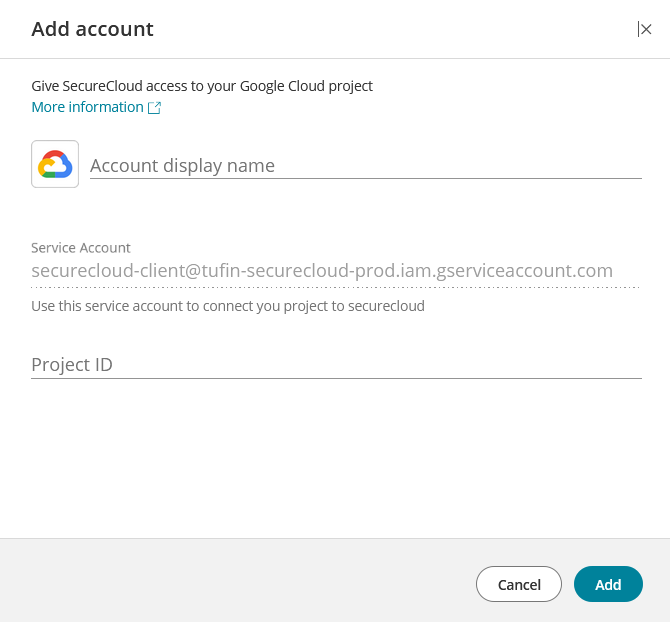
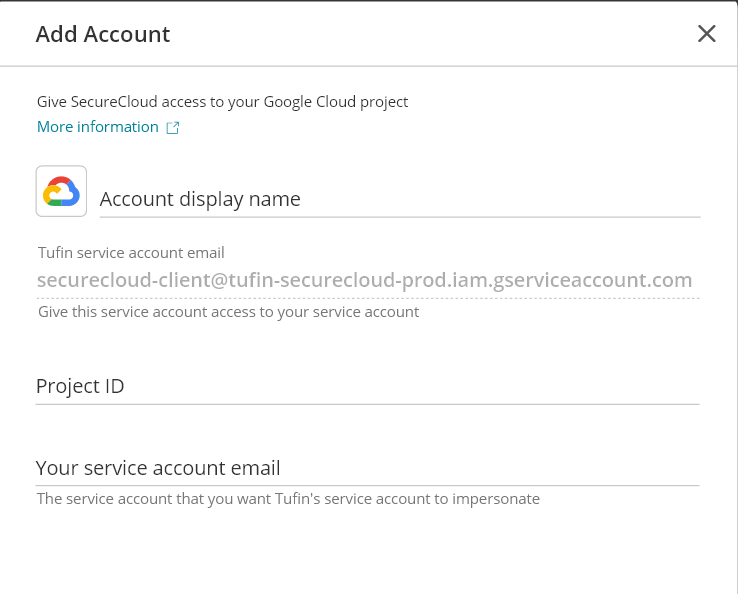
feature / po / gcp

diff --git a/Content/PublicCloud/GCPPermissions.htm b/Content/PublicCloud/GCPPermissions.htm
@@ -4,11 +4,14 @@
     </head>
     <body>
         <h1><MadCap:variable name="local.GoogleCloudPlatform" /> Permissions</h1>
-        <p>To allow <MadCap:variable name="local.ProductName" /> to monitor <MadCap:variable name="local.GoogleCloudPlatform" /> projects, you must grant the appropriate permissions. For more information, see the <a href="https://cloud.google.com/iam/docs/granting-changing-revoking-access">official <MadCap:variable name="local.GoogleCloudPlatform" /> documentation</a>. </p>
+        <p>To let <MadCap:variable name="local.ProductName" /> monitor your <MadCap:variable name="local.GoogleCloudPlatform" /> projects, you must set up the required permissions. This is done by allowing <MadCap:variable name="local.ProductName" />'s own <MadCap:variable name="local.GoogleCloudPlatform" /> service account to 'impersonate' a service account in your project that has the appropriate permissions. The steps described below must be repeated for each project. For more information, see the <a href="https://cloud.google.com/iam/docs/granting-changing-revoking-access">official <MadCap:variable name="local.GoogleCloudPlatform" /> documentation</a>. </p>
         <ol>
-            <li>In the GCP Cloud Console, go to the IAM page.</li>
-            <li>Add a new member, SecureCloud’s service account - <span class="StatusOrValue"><MadCap:variable name="local.SecureCloudGCPAccount"></MadCap:variable></span></li>
-            <li>Assign the required roles to the new member using one of the following two methods:<p><ol style="list-style-type: lower-alpha;"><li><p>Assign predefined roles <span class="StatusOrValue">compute viewer</span> and <span class="StatusOrValue">security reviewer</span>. </p><p>If you want to update access to your <MadCap:variable name="local.GoogleCloudPlatform" /> security controls via <MadCap:variable name="local.ProductName" />, assign also the predefined roles <span class="StatusOrValue">Storage Admin</span> and <span class="StatusOrValue">Compute Security Admin</span> <b>or</b></p></li><li><p>Create and assign a custom role with permissions:</p><ul><li><p>compute.addresses.list</p></li><li><p>compute.backendBuckets.list</p></li><li><p>compute.backendServices.list</p></li><li><p>compute.firewalls.list</p></li><li><p>compute.forwardingRules.list</p></li><li><p>compute.globalAddresses.list</p></li><li><p>compute.globalForwardingRules.list</p></li><li><p>compute.globalNetworkEndpointGroups.list</p></li><li><p>compute.instanceGroups.get</p></li><li><p>compute.instanceGroups.list</p></li><li><p>compute.instances.list</p></li><li><p>compute.networkEndpointGroups.list</p></li><li><p>compute.networkEndpointGroups.get</p></li><li><p>compute.networks.list</p></li><li><p>compute.regionBackendServices.list</p></li><li><p>compute.regionNetworkEndpointGroups.list</p></li><li><p>compute.regionTargetHttpProxies.list</p></li><li><p>compute.regionTargetHttpsProxies.list</p></li><li><p>compute.regionUrlMaps.list</p></li><li><p>compute.routes.list</p></li><li><p>compute.subnetworks.list</p></li><li><p>compute.targetGrpcProxies.list</p></li><li><p>compute.targetHttpProxies.list</p></li><li><p>compute.targetHttpsProxies.list</p></li><li><p>compute.targetInstances.list</p></li><li><p>compute.targetPools.list</p></li><li><p>compute.targetSslProxies.list</p></li><li><p>compute.targetTcpProxies.list</p></li><li><p>compute.urlMaps.list</p></li><li><p>iam.roles.get</p></li><li><p>iam.roles.list</p></li><li><p>iam.serviceAccounts.getIamPolicy</p></li><li><p>iam.serviceAccounts.list</p></li><li><p>storage.buckets.getIamPolicy</p></li><li><p>storage.buckets.list</p></li><li><p>resourcemanager.projects.getIamPolicy</p></li></ul><p>If you want to update access to your <MadCap:variable name="local.GoogleCloudPlatform" /> security controls via <MadCap:variable name="local.ProductName" />, also give permissions:</p><ul><li>storage.buckets.setIamPolicy</li><li>compute.firewalls.update</li><li>compute.firewalls.delete</li></ul></li></ol></p></li>
+            <li>
+                <p>Enable the API for your <MadCap:variable name="local.GoogleCloudPlatform" /> project by going to the following URL in your browser: https://console.developers.google.com/apis/api/iam.googleapis.com/overview?project=PROJNAME, where PROJNAME is the name of your project. The API can be subsequently disabled if you desire, by returning to the same URL.</p>
+            </li>
+            <li>In the <MadCap:variable name="local.GoogleCloudPlatform" /> console, create a new service account.</li>
+            <li>Assign the required roles to the new service account using one of the following two methods:<p><ol style="list-style-type: lower-alpha;"><li><p>Assign predefined roles <span class="StatusOrValue">compute viewer</span> and <span class="StatusOrValue">security reviewer</span>. </p><p>If you want to be able to modify your <MadCap:variable name="local.GoogleCloudPlatform" /> security controls via <MadCap:variable name="local.ProductName" />, assign also the predefined roles <span class="StatusOrValue">Storage Admin</span> and <span class="StatusOrValue">Compute Security Admin</span> </p></li><li><p>Create and assign a custom role with permissions:</p><ul><li><p>compute.addresses.list</p></li><li><p>compute.backendBuckets.list</p></li><li><p>compute.backendServices.list</p></li><li><p>compute.firewalls.list</p></li><li><p>compute.forwardingRules.list</p></li><li><p>compute.globalAddresses.list</p></li><li><p>compute.globalForwardingRules.list</p></li><li><p>compute.globalNetworkEndpointGroups.list</p></li><li><p>compute.instanceGroups.get</p></li><li><p>compute.instanceGroups.list</p></li><li><p>compute.instances.list</p></li><li><p>compute.networkEndpointGroups.list</p></li><li><p>compute.networkEndpointGroups.get</p></li><li><p>compute.networks.list</p></li><li><p>compute.regionBackendServices.list</p></li><li><p>compute.regionNetworkEndpointGroups.list</p></li><li><p>compute.regionTargetHttpProxies.list</p></li><li><p>compute.regionTargetHttpsProxies.list</p></li><li><p>compute.regionUrlMaps.list</p></li><li><p>compute.routes.list</p></li><li><p>compute.subnetworks.list</p></li><li><p>compute.targetGrpcProxies.list</p></li><li><p>compute.targetHttpProxies.list</p></li><li><p>compute.targetHttpsProxies.list</p></li><li><p>compute.targetInstances.list</p></li><li><p>compute.targetPools.list</p></li><li><p>compute.targetSslProxies.list</p></li><li><p>compute.targetTcpProxies.list</p></li><li><p>compute.urlMaps.list</p></li><li><p>iam.roles.get</p></li><li><p>iam.roles.list</p></li><li><p>iam.serviceAccounts.getIamPolicy</p></li><li><p>iam.serviceAccounts.list</p></li><li><p>storage.buckets.getIamPolicy</p></li><li><p>storage.buckets.list</p></li><li><p>resourcemanager.projects.getIamPolicy</p></li></ul><p>If you want to be able to modify your <MadCap:variable name="local.GoogleCloudPlatform" /> security controls via <MadCap:variable name="local.ProductName" />, also give permissions:</p><ul><li>storage.buckets.setIamPolicy</li><li>compute.firewalls.update</li><li>compute.firewalls.delete</li></ul></li></ol></p></li>
+            <li>Give permission to access the service account you have just created to SecureCloud’s own service account, named <span class="StatusOrValue"><MadCap:variable name="local.SecureCloudGCPAccount" /></span>, by assigning it the role of “Service Account Token Creator”.</li>
         </ol>
     </body>
 </html>

diff --git a/Content/PublicCloud/AccountManager.htm b/Content/PublicCloud/AccountManager.htm
@@ -139,16 +139,18 @@ Example: arn:aws:iam::006755140343:role/AssumRoleAdmin</li>
                 <p>Click <span class="ScreenObject">Add Account</span>. The Choose Vendor Window appears.</p>
             </li>
             <li>
-                <p>Select <MadCap:variable name="local.GoogleCloudPlatform" />.</p>
-            </li>
-            <li>
-                <p>Enter Account Display Name. This is for your convenience only and can be any value you choose.</p>
+                <p>Select <MadCap:variable name="local.GoogleCloudPlatform" />. The Add Account window appears.</p>
                 <p>
                     <img src="../PublicCloud-Images/Window_Add_GCP_Account.png" class="ThumbnailPopup" />
                 </p>
             </li>
             <li>
-                <p>Enter the project ID.</p>
+                <p>Enter the required fields.</p>
+                <ul>
+                    <li>Account Display Name - this is for your convenience only and can be any value you choose.</li>
+                    <li>Project ID - the project name of your <MadCap:variable name="local.GoogleCloudPlatform" /> project.</li>
+                    <li>Your service account email - The full name of the service account you created in <a href="GCPPermissions.htm">permissions</a>.</li>
+                </ul>
             </li>
             <li>Click <span class="ScreenObject">Add</span> to save.</li>
         </ol>
